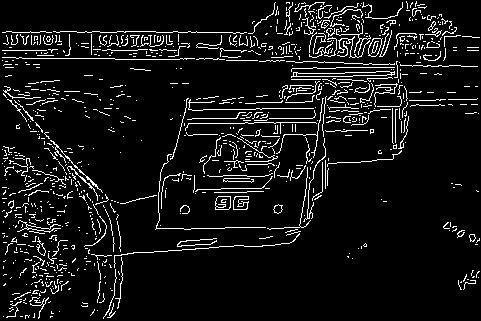
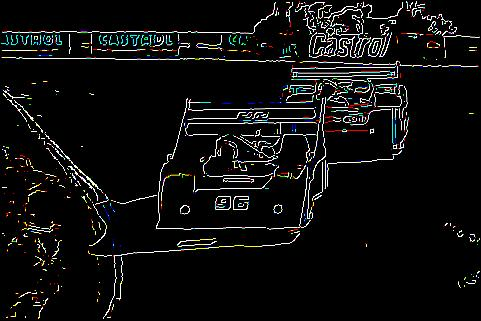
addes RGB

diff --git a/cannyRGB.m b/cannyRGB.m
@@ -1,0 +1,22 @@
+function [E] = cannyRGB(I)
+
+if size(I,3)>1
+    [Mag, Magx, Magy, Ori] = findDerivatives(I(:,:,1));
+    M = nonMaxSup(Mag, Ori);
+    E(:,:,1) = edgeLink(M, Mag, Ori);
+    
+    [Mag, Magx, Magy, Ori] = findDerivatives(I(:,:,2));
+    M = nonMaxSup(Mag, Ori);
+    E(:,:,2) = edgeLink(M, Mag, Ori);
+    
+    [Mag, Magx, Magy, Ori] = findDerivatives(I(:,:,3));
+    M = nonMaxSup(Mag, Ori);
+    E(:,:,3) = edgeLink(M, Mag, Ori);
+else
+    I_gray = I;
+    [Mag, Magx, Magy, Ori] = findDerivatives(I_gray);
+    M = nonMaxSup(Mag, Ori);
+    E = edgeLink(M, Mag, Ori);
+end
+
+end

diff --git a/run.m b/run.m
@@ -1,7 +1,7 @@
 clear
 clc
 
-I = imread('./Input/48017.jpg');
+I = imread('./Input/NY.jpg');
 
-O = cannyEdge(I);
+O = cannyRGB(I);
 imwrite(O,'./Results/o.jpg');

diff --git a/README.md b/README.md
@@ -18,3 +18,5 @@ Canny edge detector uses the following methods to compute the edges:
 | ![](Input/48017.jpg) | ![](Results/48017.jpg) |
 | ![](Input/3096.jpg) | ![](Results/3096.jpg) |
 | ![](Input/29030.jpg) | ![](Results/29030.jpg) |
+| ![](Input/189080.jpg) | ![](Results/189080.jpg) |
+| ![](Input/NY.jpg) | ![](Results/NY.jpg) |
